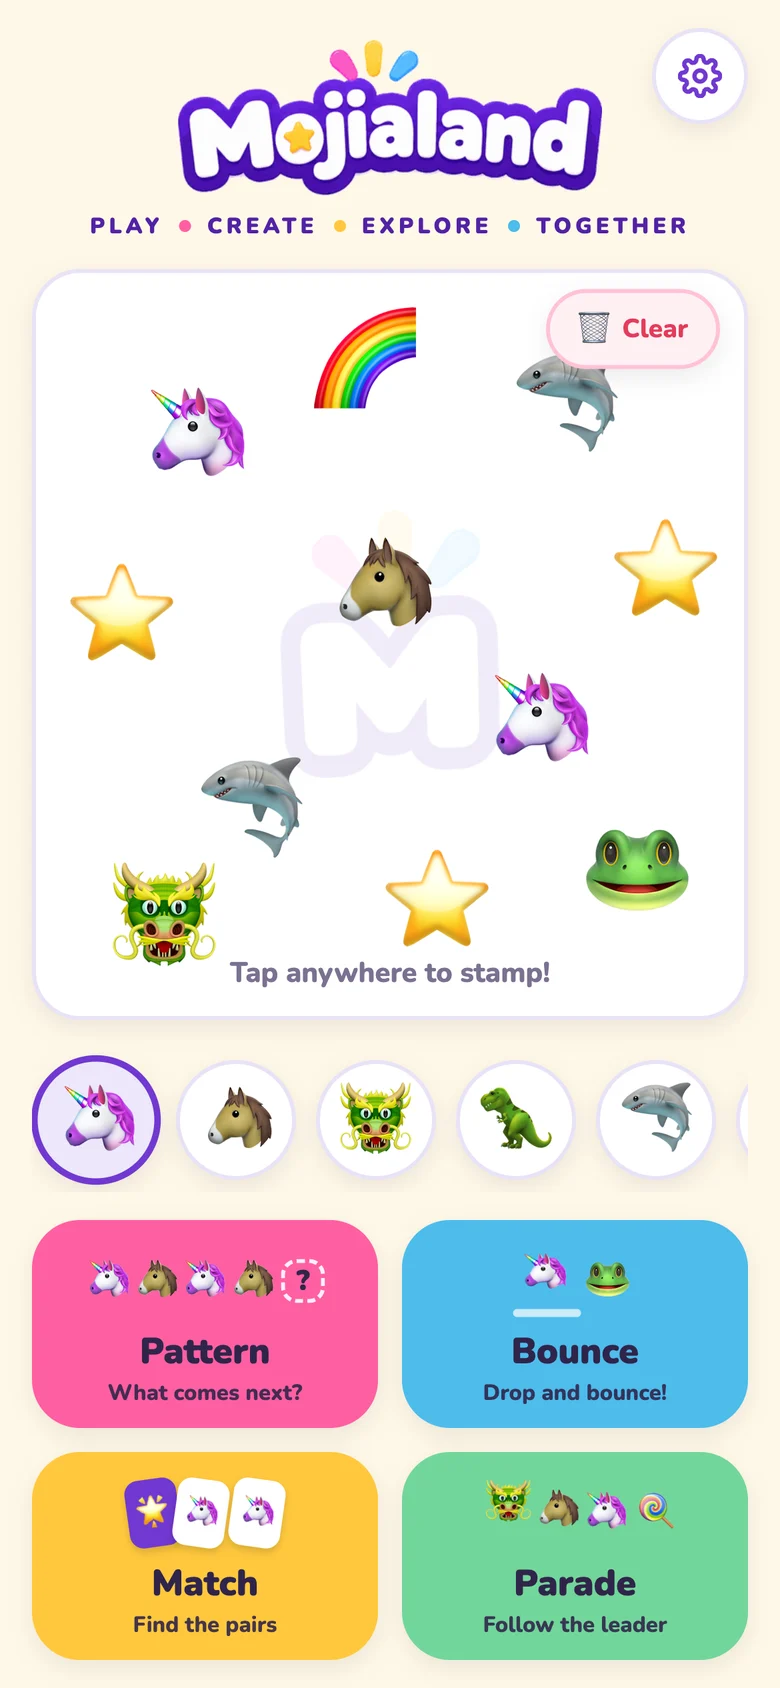
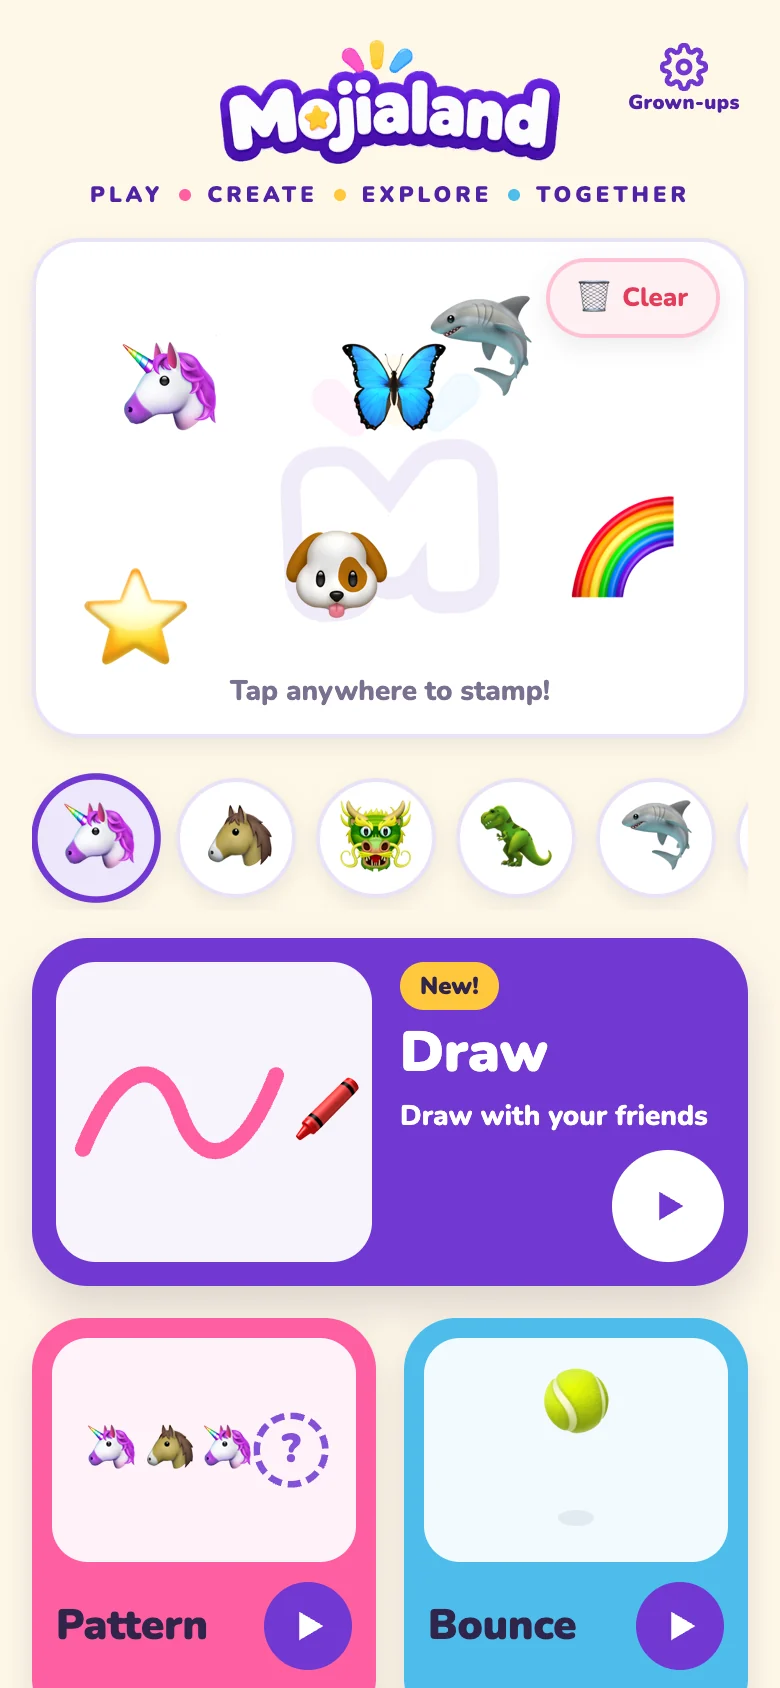
Website: game tiles match the app home, Draw added as the fifth game, new hero screenshot
Claude-Session: https://claude.ai/code/session_01FqDbdacC6Xpruay87EGJXi

diff --git a/site/index.html b/site/index.html
@@ -4,12 +4,12 @@
 <meta charset="utf-8">
 <meta name="viewport" content="width=device-width,initial-scale=1,viewport-fit=cover">
 <title>Mojialand</title>
-<meta name="description" content="Four emoji games for kids 3 and up. Matching, patterns, and memory. No accounts. No ads. No tracking.">
+<meta name="description" content="Five emoji games for kids 3 and up. Drawing, matching, patterns, and memory. No accounts. No ads. No tracking.">
 <link rel="canonical" href="https://mojialand.com/">
 <meta property="og:type" content="website">
 <meta property="og:url" content="https://mojialand.com/">
 <meta property="og:title" content="Mojialand">
-<meta property="og:description" content="Four emoji games for kids 3 and up. No accounts. No ads. No tracking.">
+<meta property="og:description" content="Five emoji games for kids 3 and up. No accounts. No ads. No tracking.">
 <meta property="og:image" content="https://mojialand.com/logo/app-icon-1024.png">
 <style>@font-face{font-family:"Nunito";src:url("/fonts/nunito-latin.woff2") format("woff2");font-weight:700 900;font-display:swap}</style>
 <link rel="icon" href="/logo/favicon.svg" type="image/svg+xml">
@@ -114,37 +114,60 @@ section{padding-block:72px}
 /* Games */
 .games-head{display:flex;flex-wrap:wrap;justify-content:space-between;align-items:end;gap:16px;margin-bottom:32px}
 .games-head h2{font-size:clamp(34px,4.4vw,52px)}
-.tiles{display:grid;grid-template-columns:repeat(4,1fr);gap:16px}
-.tile{border-radius:var(--r);padding:22px 20px 24px;color:#fff;position:relative;overflow:hidden;box-shadow:var(--shadow);min-height:250px;display:flex;flex-direction:column}
-.tile .pic{display:flex;gap:4px;align-items:center;justify-content:center;height:84px;background:rgba(255,255,255,.28);border-radius:18px;padding:0 10px;margin-bottom:18px}
-.tile .pic .e{font-size:32px;flex:none}
-.tile .pic .q{width:34px;height:34px;border-radius:10px;border:3px dashed rgba(255,255,255,.95);display:grid;place-items:center;font-size:20px;font-weight:900;margin-left:4px;flex:none}
-.ico-bounce{position:relative}
-.ico-bounce .hop{display:block;animation:hop 1.1s infinite cubic-bezier(.3,0,.7,1)}
-.ico-bounce .hop .e{font-size:38px}
-.ico-bounce .gnd{width:58px;height:5px;border-radius:3px;background:rgba(255,255,255,.75);align-self:flex-end;margin:0 4px 16px -50px}
-@keyframes hop{0%,100%{transform:translateY(-14px)}50%{transform:translateY(6px) scale(1.1,.9)}}
-.ico-match .card{width:44px;height:58px;border-radius:10px;background:#fff;display:grid;place-items:center;box-shadow:0 3px 6px rgba(48,37,74,.18)}
-.ico-match .card .e{font-size:26px}
-.ico-match .card.back{background:var(--purple);border:3px solid #A585E6;transform:rotate(-8deg);margin-right:-6px}
-.ico-match .card.face{transform:rotate(4deg)}
-.ico-match .card.face.r{transform:rotate(10deg)}
-.ico-parade .march{display:flex;gap:2px;animation:tmarch 1.6s infinite ease-in-out}
-.ico-parade .march .e{animation:pbob .45s infinite alternate ease-in-out}
-.ico-parade .march .b1{font-size:36px}
-.ico-parade .march .b2{animation-delay:.15s}.ico-parade .march .b3{animation-delay:.3s}
-.ico-parade .lolly{font-size:26px;margin-left:6px}
-@keyframes tmarch{0%,100%{transform:translateX(-4px)}50%{transform:translateX(4px)}}
-@keyframes pbob{from{transform:translateY(0)}to{transform:translateY(-6px) scale(1.05,.95)}}
-.tile p.tag{margin-top:2px;font-size:14px;font-weight:900;opacity:.9}
-.tile h3{color:inherit;font-size:28px}
-.tile p{margin-top:8px;font-size:16px;opacity:.95}
-.tile .skill{margin-top:auto;padding-top:16px;font-size:12px;letter-spacing:.16em;text-transform:uppercase;opacity:.9}
-.t-pattern{background:var(--pink)}.t-bounce{background:var(--blue)}
-.t-match{background:var(--yellow);color:var(--ink)}.t-parade{background:var(--green);color:var(--ink)}
-.t-match .pic .q,.t-parade .pic .q{border-color:rgba(48,37,74,.6)}
-@media (max-width:900px){.tiles{grid-template-columns:repeat(2,1fr)}}
-@media (max-width:520px){.tiles{grid-template-columns:1fr}.tile{min-height:0}}
+/* Game tiles match the app home (Mojialand-Home-Tiles-Handoff.md): featured card, then colored tiles with a white scene window and a purple play button. */
+.gtile{appearance:none;border:0;font:inherit;text-align:left;cursor:pointer;color:var(--ink);transition:transform .15s ease;display:flex}
+.gtile:active{transform:scale(.97)}
+@media (hover:hover){.gtile:hover{transform:translateY(-3px)}}
+.gtile:focus-visible{outline:4px solid var(--blue);outline-offset:4px}
+.gtile .gname{display:block;font-weight:900;line-height:1.05;letter-spacing:-.01em}
+.gtile .tag,.gtile .gdesc,.gtile .skill{display:block}
+.gfeat{width:100%;background:var(--purple);color:#fff;border-radius:28px;padding:14px;gap:22px;align-items:stretch;box-shadow:0 10px 22px rgba(48,37,74,.18);margin-bottom:18px}
+.gfeat .win{width:clamp(180px,34%,360px);min-height:190px;flex:none;border-radius:20px;background:rgba(255,255,255,.94);overflow:hidden;display:flex;align-items:center;justify-content:center}
+.gfeat .win>div{transform:scale(1.5)}
+.gfeat .col{flex:1;min-width:0;display:flex;flex-direction:column;gap:8px;padding:8px 6px 4px 0}
+.gchip{align-self:flex-start;padding:5px 12px;border-radius:12px;font-size:13px;font-weight:900;background:var(--yellow);color:var(--ink)}
+.gfeat .gname{font-size:clamp(32px,4vw,44px)}
+.gfeat .tag{font-size:17px;font-weight:900}
+.gfeat .gdesc{font-size:16px;max-width:52ch;opacity:.95}
+.gfeat .foot{margin-top:auto;display:flex;align-items:center;justify-content:space-between;gap:12px;padding-top:8px}
+.gfeat .skill{font-size:12px;letter-spacing:.16em;text-transform:uppercase;font-weight:900;opacity:.9}
+.gplay{display:flex;align-items:center;justify-content:center;border-radius:999px;background:var(--purple);flex:none;width:44px;height:44px;animation:gring 2.2s ease-out infinite}
+.gplay.big{width:56px;height:56px;background:#fff;animation-name:gringw}
+@keyframes gring{0%{box-shadow:0 0 0 0 rgba(113,56,209,.5);transform:scale(1)}15%{transform:scale(1.08)}30%{transform:scale(1)}70%{box-shadow:0 0 0 14px rgba(113,56,209,0)}100%{box-shadow:0 0 0 0 rgba(113,56,209,0)}}
+@keyframes gringw{0%{box-shadow:0 0 0 0 rgba(255,255,255,.55);transform:scale(1)}15%{transform:scale(1.08)}30%{transform:scale(1)}70%{box-shadow:0 0 0 14px rgba(255,255,255,0)}100%{box-shadow:0 0 0 0 rgba(255,255,255,0)}}
+.tiles{display:grid;grid-template-columns:repeat(4,minmax(0,1fr));gap:16px}
+.gcell{flex-direction:column;gap:10px;padding:10px 10px 18px;border-radius:26px;box-shadow:0 8px 18px rgba(48,37,74,.14)}
+.gcell .win{height:130px;flex:none;border-radius:18px;background:rgba(255,255,255,.92);overflow:hidden;display:flex;align-items:center;justify-content:center}
+.gcell .hrow{display:flex;align-items:center;gap:8px;padding:0 4px}
+.gcell .gname{flex:1;min-width:0;font-size:24px}
+.gcell .tag{padding:0 4px;font-size:14px;font-weight:900}
+.gcell .gdesc{padding:0 4px;font-size:15px}
+.gcell .skill{margin-top:auto;padding:6px 4px 0;font-size:12px;letter-spacing:.16em;text-transform:uppercase;font-weight:900;opacity:.85}
+.t-pattern{background:var(--pink)}.t-bounce{background:var(--blue)}.t-match{background:var(--yellow)}.t-parade{background:var(--green)}
+/* Scenes: the same loops as the app tiles. */
+.hs-pi{display:inline-block;animation:hspi 3.2s ease-in-out infinite}
+.hs-pi2{animation-delay:.25s}.hs-pi3{animation-delay:.5s}
+@keyframes hspi{0%,24%,100%{transform:translateY(0)}12%{transform:translateY(-7px)}}
+.hs-pq{width:34px;height:34px;box-sizing:border-box;border-radius:17px;border:3px dashed var(--purple);display:flex;align-items:center;justify-content:center;font-size:18px;font-weight:900;color:var(--purple);animation:hspq 1.6s ease-in-out infinite}
+@keyframes hspq{0%,100%{transform:scale(1);opacity:.55}50%{transform:scale(1.15);opacity:1}}
+.hs-ball{animation:hsbounce 1.1s cubic-bezier(.3,0,.7,1) infinite}
+@keyframes hsbounce{0%,100%{transform:translateY(0) scale(1.15,.85)}12%{transform:translateY(-6px) scale(1,1)}50%{transform:translateY(-40px) scale(1,1)}88%{transform:translateY(-6px) scale(1,1)}}
+.hs-bsh{animation:hsbsh 1.1s cubic-bezier(.3,0,.7,1) infinite}
+@keyframes hsbsh{0%,100%{transform:scaleX(1);opacity:1}50%{transform:scaleX(.5);opacity:.4}}
+.hs-card{position:relative;width:44px;height:58px;border-radius:10px;background:var(--purple);box-shadow:0 3px 0 var(--deep)}
+.hs-card.flip{animation:hsflip 3.4s ease-in-out infinite}
+@keyframes hsflip{0%,30%{transform:scaleX(1)}38%{transform:scaleX(0)}46%,82%{transform:scaleX(1)}90%{transform:scaleX(0)}98%,100%{transform:scaleX(1)}}
+.hs-face{position:absolute;inset:0;box-sizing:border-box;border-radius:10px;background:#fff;border:3px solid var(--yellow);display:flex;align-items:center;justify-content:center;font-size:26px;animation:hsface 3.4s step-end infinite}
+@keyframes hsface{0%{opacity:0}38%{opacity:1}90%{opacity:0}}
+.hs-march{display:flex;width:max-content;font-size:30px;line-height:1;animation:hsmarch 8s linear infinite}
+.hs-march span{padding:0 5px}
+@keyframes hsmarch{from{transform:translateX(0)}to{transform:translateX(-50%)}}
+.hs-dr{stroke-dasharray:200;stroke-dashoffset:200;animation:hsdraw 3s ease-in-out infinite}
+@keyframes hsdraw{0%{stroke-dashoffset:200}60%,85%{stroke-dashoffset:0}100%{stroke-dashoffset:-200}}
+@media (prefers-reduced-motion:reduce){.hs-face{opacity:1}.hs-dr{stroke-dashoffset:0}}
+@media (max-width:900px){.tiles{grid-template-columns:repeat(2,minmax(0,1fr))}}
+@media (max-width:440px){.gcell .win>*{transform:scale(.82)}.gcell .gname{font-size:21px}}
+@media (max-width:620px){.gfeat{flex-direction:column;gap:14px}.gfeat .win{width:100%;min-height:170px}.gfeat .col{padding:0 4px 4px}}
 
 /* Promise band */
 .promise{background:var(--deep);color:#fff;border-radius:36px;padding:44px clamp(22px,4vw,56px);display:grid;grid-template-columns:1.1fr 1.4fr;gap:36px;align-items:center}
@@ -319,7 +342,7 @@ footer .fine.credit a{color:#fff;text-decoration:underline;text-underline-offset
    <div>
     <p class="eyebrow">Emoji games for kids 3 and up</p>
     <h1 style="margin-top:14px">Big Play. <em>Bigger Smiles.</em></h1>
-    <p class="lede">Four games for matching, patterns, and memory. Your child plays with pictures, not words. No accounts. No ads. No tracking.</p>
+    <p class="lede">Five games for drawing, matching, patterns, and memory. Your child plays with pictures, not words. No accounts. No ads. No tracking.</p>
     <div class="ctas">
      <button class="btn btn-primary btn-play" type="button" data-play><span class="pdot" aria-hidden="true"></span>Try a game free</button>
      <a class="btn btn-secondary" href="#passes">See passes</a>
@@ -327,7 +350,7 @@ footer .fine.credit a{color:#fff;text-decoration:underline;text-underline-offset
     <div class="tagrow" aria-label="Play, create, explore, together">PLAY <b class="pk">•</b> CREATE <b class="yl">•</b> EXPLORE <b class="bl">•</b> TOGETHER</div>
    </div>
    <div class="stage">
-    <div class="float-f" aria-hidden="true"><span class="em ff" style="left:0%;top:10%;font-size:15cqw;--r:-10deg">🦄</span><span class="em ff" style="right:0%;top:4%;font-size:14cqw;animation-delay:-1.5s;--r:8deg"><i class="mir">🦈</i></span><span class="em ff" style="left:3%;bottom:14%;font-size:12cqw;animation-delay:-2.2s">🐶</span><span class="em ff" style="right:3%;bottom:22%;font-size:12cqw;animation-delay:-.8s;--r:10deg">🍕</span></div><button class="phone" type="button" data-play aria-label="Try a game in Mojialand"><img src="img/app-home.webp" width="780" height="1688" alt="The Mojialand home screen: emoji stamped on a canvas, an emoji tray, and the Pattern, Bounce, Match, and Parade game tiles"></button>
+    <div class="float-f" aria-hidden="true"><span class="em ff" style="left:0%;top:10%;font-size:15cqw;--r:-10deg">🦄</span><span class="em ff" style="right:0%;top:4%;font-size:14cqw;animation-delay:-1.5s;--r:8deg"><i class="mir">🦈</i></span><span class="em ff" style="left:3%;bottom:14%;font-size:12cqw;animation-delay:-2.2s">🐶</span><span class="em ff" style="right:3%;bottom:22%;font-size:12cqw;animation-delay:-.8s;--r:10deg">🍕</span></div><button class="phone" type="button" data-play aria-label="Try a game in Mojialand"><img src="img/app-home.webp?v=2" width="780" height="1688" alt="The Mojialand home screen: emoji stamped on a canvas, an emoji tray, the new Draw game, and the Pattern and Bounce game tiles"></button>
    </div>
   </div>
  </section>
@@ -337,39 +360,50 @@ footer .fine.credit a{color:#fff;text-decoration:underline;text-underline-offset
    <div class="games-head">
     <div>
      <p class="eyebrow">Choose a game</p>
-     <h2 style="margin-top:10px">Four games. One happy place.</h2>
+     <h2 style="margin-top:10px">Five games. One happy place.</h2>
     </div>
     <p class="lede" style="max-width:42ch">Every game teaches itself with a picture card the first time. No reading needed.</p>
    </div>
+
+   <button class="gtile gfeat" type="button" data-play>
+    <span class="win" aria-hidden="true"><div><div style="display:flex;align-items:center;gap:2px"><svg width="96" height="60" viewBox="0 0 96 60" aria-hidden="true"><path class="hs-dr" d="M6 46 C 22 6, 40 6, 48 30 S 74 56, 90 14" fill="none" stroke="#FF5FA2" stroke-width="7" stroke-linecap="round"/></svg><span class="em" style="font-size:28px">🖍</span></div></div></span>
+    <span class="col">
+     <span class="gchip">New!</span>
+     <span class="gname">Draw</span>
+     <span class="tag">Draw with your friends</span>
+     <span class="gdesc">Crayons, markers, paint, glitter, and an emoji brush that leaves a trail of friends. Color a page from the coloring book, then hang the art on the fridge.</span>
+     <span class="foot"><span class="skill">Create and imagine</span><span class="gplay big" aria-hidden="true"><svg width="22" height="22" viewBox="0 0 20 20" aria-hidden="true"><path d="M6 3.5v13l11-6.5z" fill="#7138D1"/></svg></span></span>
+    </span>
+   </button>
    <div class="tiles">
-    <article class="tile t-pattern">
-     <div class="pic ico-pattern" aria-hidden="true"><span class="e  em">🦄</span><span class="e  em">🐴</span><span class="e  em">🦄</span><span class="e  em">🐴</span><span class="q">?</span></div>
-     <h3>Pattern</h3>
-     <p class="tag">What comes next?</p>
-     <p>Finish the row. Six levels move from easy pairs to longer patterns, each in a new scene.</p>
+    <button class="gtile gcell t-pattern" type="button" data-play>
+     <span class="win" aria-hidden="true"><div style="display:flex;align-items:center;gap:3px;font-size:26px;line-height:1"><span class="em hs-pi">🦄</span><span class="em hs-pi hs-pi2">🐴</span><span class="em hs-pi hs-pi3">🦄</span><span class="hs-pq">?</span></div></span>
+     <span class="hrow"><span class="gname">Pattern</span><span class="gplay" style="animation-delay:0.5s" aria-hidden="true"><svg width="22" height="22" viewBox="0 0 20 20" aria-hidden="true"><path d="M6 3.5v13l11-6.5z" fill="#FFFFFF"/></svg></span></span>
+     <span class="tag">What comes next?</span>
+     <span class="gdesc">Finish the row. Six levels move from easy pairs to longer patterns, each in a new scene. Win a medal at every level.</span>
      <span class="skill">Patterns</span>
-    </article>
-    <article class="tile t-bounce">
-     <div class="pic ico-bounce" aria-hidden="true"><span class="hop"><span class="e  em">🦄</span></span><span class="gnd"></span><span class="e  em">🐸</span></div>
-     <h3>Bounce</h3>
-     <p class="tag">Drop and bounce!</p>
-     <p>Tap to drop friends into a bouncy box and watch them spring. Pick from 164 emoji.</p>
+    </button>
+    <button class="gtile gcell t-bounce" type="button" data-play>
+     <span class="win" aria-hidden="true"><div style="position:relative;width:120px;height:100px"><div class="hs-bsh" style="position:absolute;left:42px;bottom:12px;width:36px;height:8px;border-radius:50%;background:rgba(48,37,74,.18)"></div><div class="em hs-ball" style="position:absolute;left:43px;bottom:16px;font-size:34px">🎾</div></div></span>
+     <span class="hrow"><span class="gname">Bounce</span><span class="gplay" style="animation-delay:1.0s" aria-hidden="true"><svg width="22" height="22" viewBox="0 0 20 20" aria-hidden="true"><path d="M6 3.5v13l11-6.5z" fill="#FFFFFF"/></svg></span></span>
+     <span class="tag">Drop and bounce!</span>
+     <span class="gdesc">Tap to drop friends into a bouncy box and watch them spring. Pick from 164 emoji.</span>
      <span class="skill">Cause and effect</span>
-    </article>
-    <article class="tile t-match">
-     <div class="pic ico-match" aria-hidden="true"><span class="card back"><span class="e  em">🌟</span></span><span class="card face"><span class="e  em">🦄</span></span><span class="card face r"><span class="e  em">🦄</span></span></div>
-     <h3>Match</h3>
-     <p class="tag">Find the pairs</p>
-     <p>Flip two cards and find the pairs. Stars, medals, and bigger boards across 18 levels.</p>
+    </button>
+    <button class="gtile gcell t-match" type="button" data-play>
+     <span class="win" aria-hidden="true"><div style="display:flex;gap:10px"><div class="hs-card flip"><div class="hs-face em">😊</div></div><div class="hs-card"></div><div class="hs-card flip"><div class="hs-face em">😊</div></div></div></span>
+     <span class="hrow"><span class="gname">Match</span><span class="gplay" style="animation-delay:1.5s" aria-hidden="true"><svg width="22" height="22" viewBox="0 0 20 20" aria-hidden="true"><path d="M6 3.5v13l11-6.5z" fill="#FFFFFF"/></svg></span></span>
+     <span class="tag">Find the pairs</span>
+     <span class="gdesc">Flip two cards and find the pairs. Stars, medals, and bigger boards across 18 levels.</span>
      <span class="skill">Memory</span>
-    </article>
-    <article class="tile t-parade">
-     <div class="pic ico-parade" aria-hidden="true"><span class="march"><span class="e b1 em">🐲</span><span class="e b2 em">🐴</span><span class="e b3 em">🦄</span></span><span class="e lolly em">🍭</span></div>
-     <h3>Parade</h3>
-     <p class="tag">Follow the leader</p>
-     <p>Tap to drop a lollipop and the parade chases it through seven worlds. Add friends to grow the line.</p>
+    </button>
+    <button class="gtile gcell t-parade" type="button" data-play>
+     <span class="win" aria-hidden="true"><div style="width:100%;overflow:hidden"><div class="hs-march em"><span>🦄</span><span>🐶</span><span>🦖</span><span>🦈</span><span>🍕</span><span>🦄</span><span>🐶</span><span>🦖</span><span>🦈</span><span>🍕</span></div></div></span>
+     <span class="hrow"><span class="gname">Parade</span><span class="gplay" style="animation-delay:2.0s" aria-hidden="true"><svg width="22" height="22" viewBox="0 0 20 20" aria-hidden="true"><path d="M6 3.5v13l11-6.5z" fill="#FFFFFF"/></svg></span></span>
+     <span class="tag">Follow the leader</span>
+     <span class="gdesc">Tap to drop a lollipop and the parade chases it through seven worlds. Add friends to grow the line.</span>
      <span class="skill">Create and explore</span>
-    </article>
+    </button>
    </div>
   </div>
  </section>
